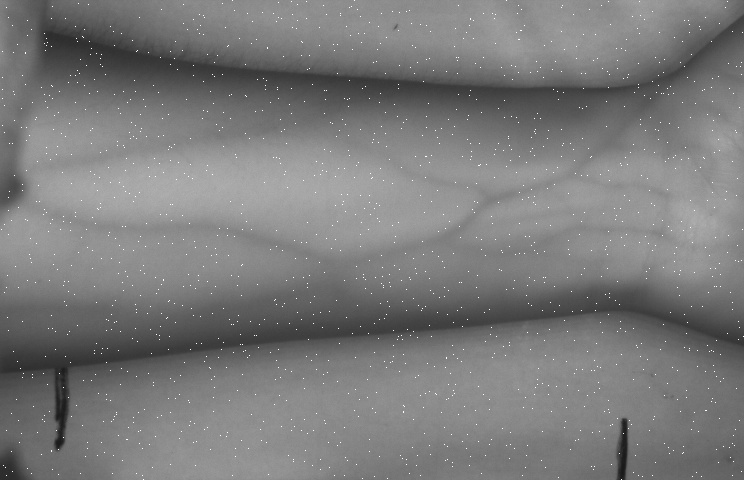
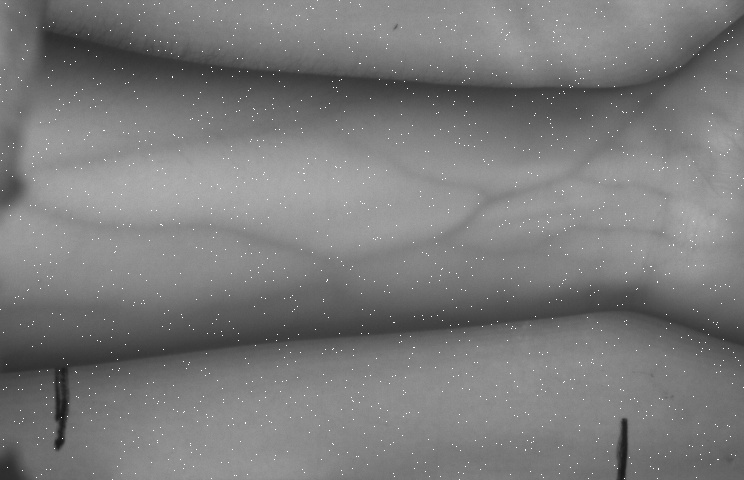
fixed random non-vessel intersecting with vessel pixels

diff --git a/color/src/anaFunc.py b/color/src/anaFunc.py
@@ -1,0 +1,70 @@
+# -*- coding: utf-8 -*-
+"""
+Created on Tue Aug 09 14:27:44 2016
+
+@author: keisoku
+"""
+import cv2
+import matplotlib.pyplot as plt
+from mpl_toolkits.mplot3d import axes3d, Axes3D
+import numpy as np
+
+
+def plotImg(img):
+    fig = plt.figure()
+    ax = fig.add_subplot(111, projection='3d')
+    x = range(np.size(img,1))
+    y = range(np.size(img,0))
+    X, Y = np.meshgrid(x, y)
+    plt.gca().invert_yaxis()
+    ax.plot_surface(X,Y,img)
+"""
+img = cv2.imread('input/test.bmp',cv2.IMREAD_GRAYSCALE)
+img = cv2.pyrDown(img)
+img = hlpr.getScaledImg(img,225)
+plotImg(img)
+"""
+
+
+def getCoord(event,x,y,flags,param):
+    if event == cv2.EVENT_LBUTTONDOWN:
+        print (x,y)
+ 
+"""
+img = cv2.imread('input/marker.bmp',cv2.IMREAD_GRAYSCALE)
+cv2.namedWindow("image")
+cv2.setMouseCallback("image", getCoord)
+cv2.imshow('image',img)
+cv2.waitKey()
+cv2.destroyAllWindows()
+"""
+
+def getNeighbourCoords(coord,size): # coord: (x,y)
+    assert size%2 == 1
+    coords = np.zeros((size,size,2))
+    up_left = (coord[0] - (size-1)/2, coord[1] - (size-1)/2)
+    yOffset = np.repeat(np.array(range(size))[np.newaxis,:].T,size,1)
+    xOffset = np.repeat(np.array(range(size))[np.newaxis,:],size,0)
+    coords[:,:,1] = np.ones((size,size))*up_left[1] + yOffset
+    coords[:,:,0] = np.ones((size,size))*up_left[0] + xOffset
+    return coords.reshape(size**2,2).astype(np.int)
+
+def plotRidgeStrAlongScale(cuboid,coords):
+    for coord in coords:
+        y = cuboid[coord[1],coord[0],:]
+        plt.plot(y)
+        
+def plotAlongAxis(axis,mat,index):
+    if axis == 0:
+        y = mat[200:300,index]
+        plt.plot(y)
+    elif axis == 1:
+        y = mat[index,:]
+        plt.plot(y)
+        
+"""
+img = cv2.imread('input/IR3/test7.bmp',cv2.IMREAD_GRAYSCALE)
+for scale in range(5):
+    scaled = hlpr.ScaledImage(img,scale)
+    anaFunc.plotAlongAxis(0,scaled.getImg,452)
+"""

diff --git a/color/src/featuremat.py b/color/src/featuremat.py
@@ -35,21 +35,21 @@ class FeatureMatMaker(object):
             y = self.index[0][np.newaxis,:]
             x = self.index[1][np.newaxis,:]
             vessel_ind_struc = np.concatenate((y,x),axis=0).flatten('F')
-            vessel_ind_struc = vessel_ind_struc.view([('y',np.uint32),
-                                                      ('x',np.uint32)]) # structured array with (y,x) elements
+            vessel_ind_struc = vessel_ind_struc.view([('y',np.int64),
+                                                      ('x',np.int64)]) # structured array with (y,x) elements
             y = np.random.randint(self.img.shape[0],size=self.sample_size)[np.newaxis,:]
             x = np.random.randint(self.img.shape[1],size=self.sample_size)[np.newaxis,:]
             non_vessel_ind_struc = np.concatenate((y,x),axis=0).flatten('F')
-            non_vessel_ind_struc = non_vessel_ind_struc.view([('y',np.uint32),
-                                                              ('x',np.uint32)])
+            non_vessel_ind_struc = non_vessel_ind_struc.astype(np.int64)
+            non_vessel_ind_struc = non_vessel_ind_struc.view([('y',np.int64),
+                                                              ('x',np.int64)])
             non_vessel_ind_struc = np.unique(non_vessel_ind_struc)
         
             intersects = np.intersect1d(vessel_ind_struc,non_vessel_ind_struc,True)
             for intersect in intersects:
                 non_vessel_ind_struc = np.delete(non_vessel_ind_struc, np.where(non_vessel_ind_struc==intersect))
             
-            non_vessel_ind = (non_vessel_ind_struc['y'],non_vessel_ind_struc['x'])
-            
+            non_vessel_ind = (non_vessel_ind_struc['y'],non_vessel_ind_struc['x'])          
             return non_vessel_ind
         
     def getDerivMat(self,scaled):

diff --git a/color/src/makeTrainSet.py b/color/src/makeTrainSet.py
@@ -9,6 +9,7 @@ import cv2
 import numpy as np
 import scipy.io
 import featuremat
+import anaFunc
 
 def randNonVessel(shape,vessel_index):
     sample_size = np.size(vessel_index[0])
@@ -37,18 +38,16 @@ if __name__ == "__main__":
     img = cv2.imread('../data/color/tanaka1.bmp')
     vessel_index = np.nonzero(vessel_bin)
     feature_mat_maker = featuremat.FeatureMatMaker(img,vessel_index,scales)
-    vessel_feature_mat = feature_mat_maker.getMat()
+    #vessel_feature_mat = feature_mat_maker.getMat()
     
-    non_vessel_ind = feature_mat_maker.getMat(False)
+    non_vessel_ind = feature_mat_maker.getMat(is_vessel=False)
     gray = cv2.imread('../data/IR/tanaka1.bmp',0)
     vessels = np.copy(gray)
     vessels[non_vessel_ind] = 255
     vessels = vessels*(vessel_bin==0)
     random = np.copy(gray)
     random[non_vessel_ind] = 255
-    cv2.imwrite('../data/vessels.jpg',vessels)
-    cv2.imwrite('../data/random.jpg',random)   #random intersects with vessels, needs fixing
-    
+
     #non_vessel_ind = (non_vessel_ind_struc['y'],non_vessel_ind_struc['x'])
     #non_vessel_feature_mat = makeFeatureMatrix(img,non_vessel_ind,scales)
     #scipy.io.savemat('feature_mat.mat',

diff --git a/color/src/test.py b/color/src/test.py
@@ -9,14 +9,13 @@ import numpy as np
 import featuremat
 import makeTrainSet
 
-#test FeatureMat
+"""#test FeatureMat
 vessel_bin = np.load('../data/test_seven_vessels.npy')
 vessel_index = np.nonzero(vessel_bin)
 scales = np.arange(3,200,5)
 img = cv2.imread('../data/color&IR/color1.bmp')
 
 color_feature_mat = featuremat.FeatureMatMaker(img,vessel_index,scales).getMat()
-"""
 gray_feature_mat1 = makeTrainSet.makeFeatureMatrix(img[:,:,0],vessel_index,scales)
 gray_feature_mat2 = makeTrainSet.makeFeatureMatrix(img[:,:,1],vessel_index,scales)
 gray_feature_mat3 = makeTrainSet.makeFeatureMatrix(img[:,:,2],vessel_index,scales)
@@ -26,3 +25,9 @@ for i in range(len(scales)):
     print np.array_equal(color_feature_mat[:,i*15+5:i*15+5+5],gray_feature_mat2[:,i*5:i*5+5])
     print np.array_equal(color_feature_mat[:,i*15+10:i*15+10+5],gray_feature_mat3[:,i*5:i*5+5])
 """
+
+# test FeatureMat.getMat
+img = np.zeros((3,3,3),dtype=np.uint8)
+index = (np.array([0,1,2,2]),np.array([0,2,0,1]))
+feature_mat_maker = featuremat.FeatureMatMaker(img,index,3)
+no_intersect_index = feature_mat_maker.getMat(False)
